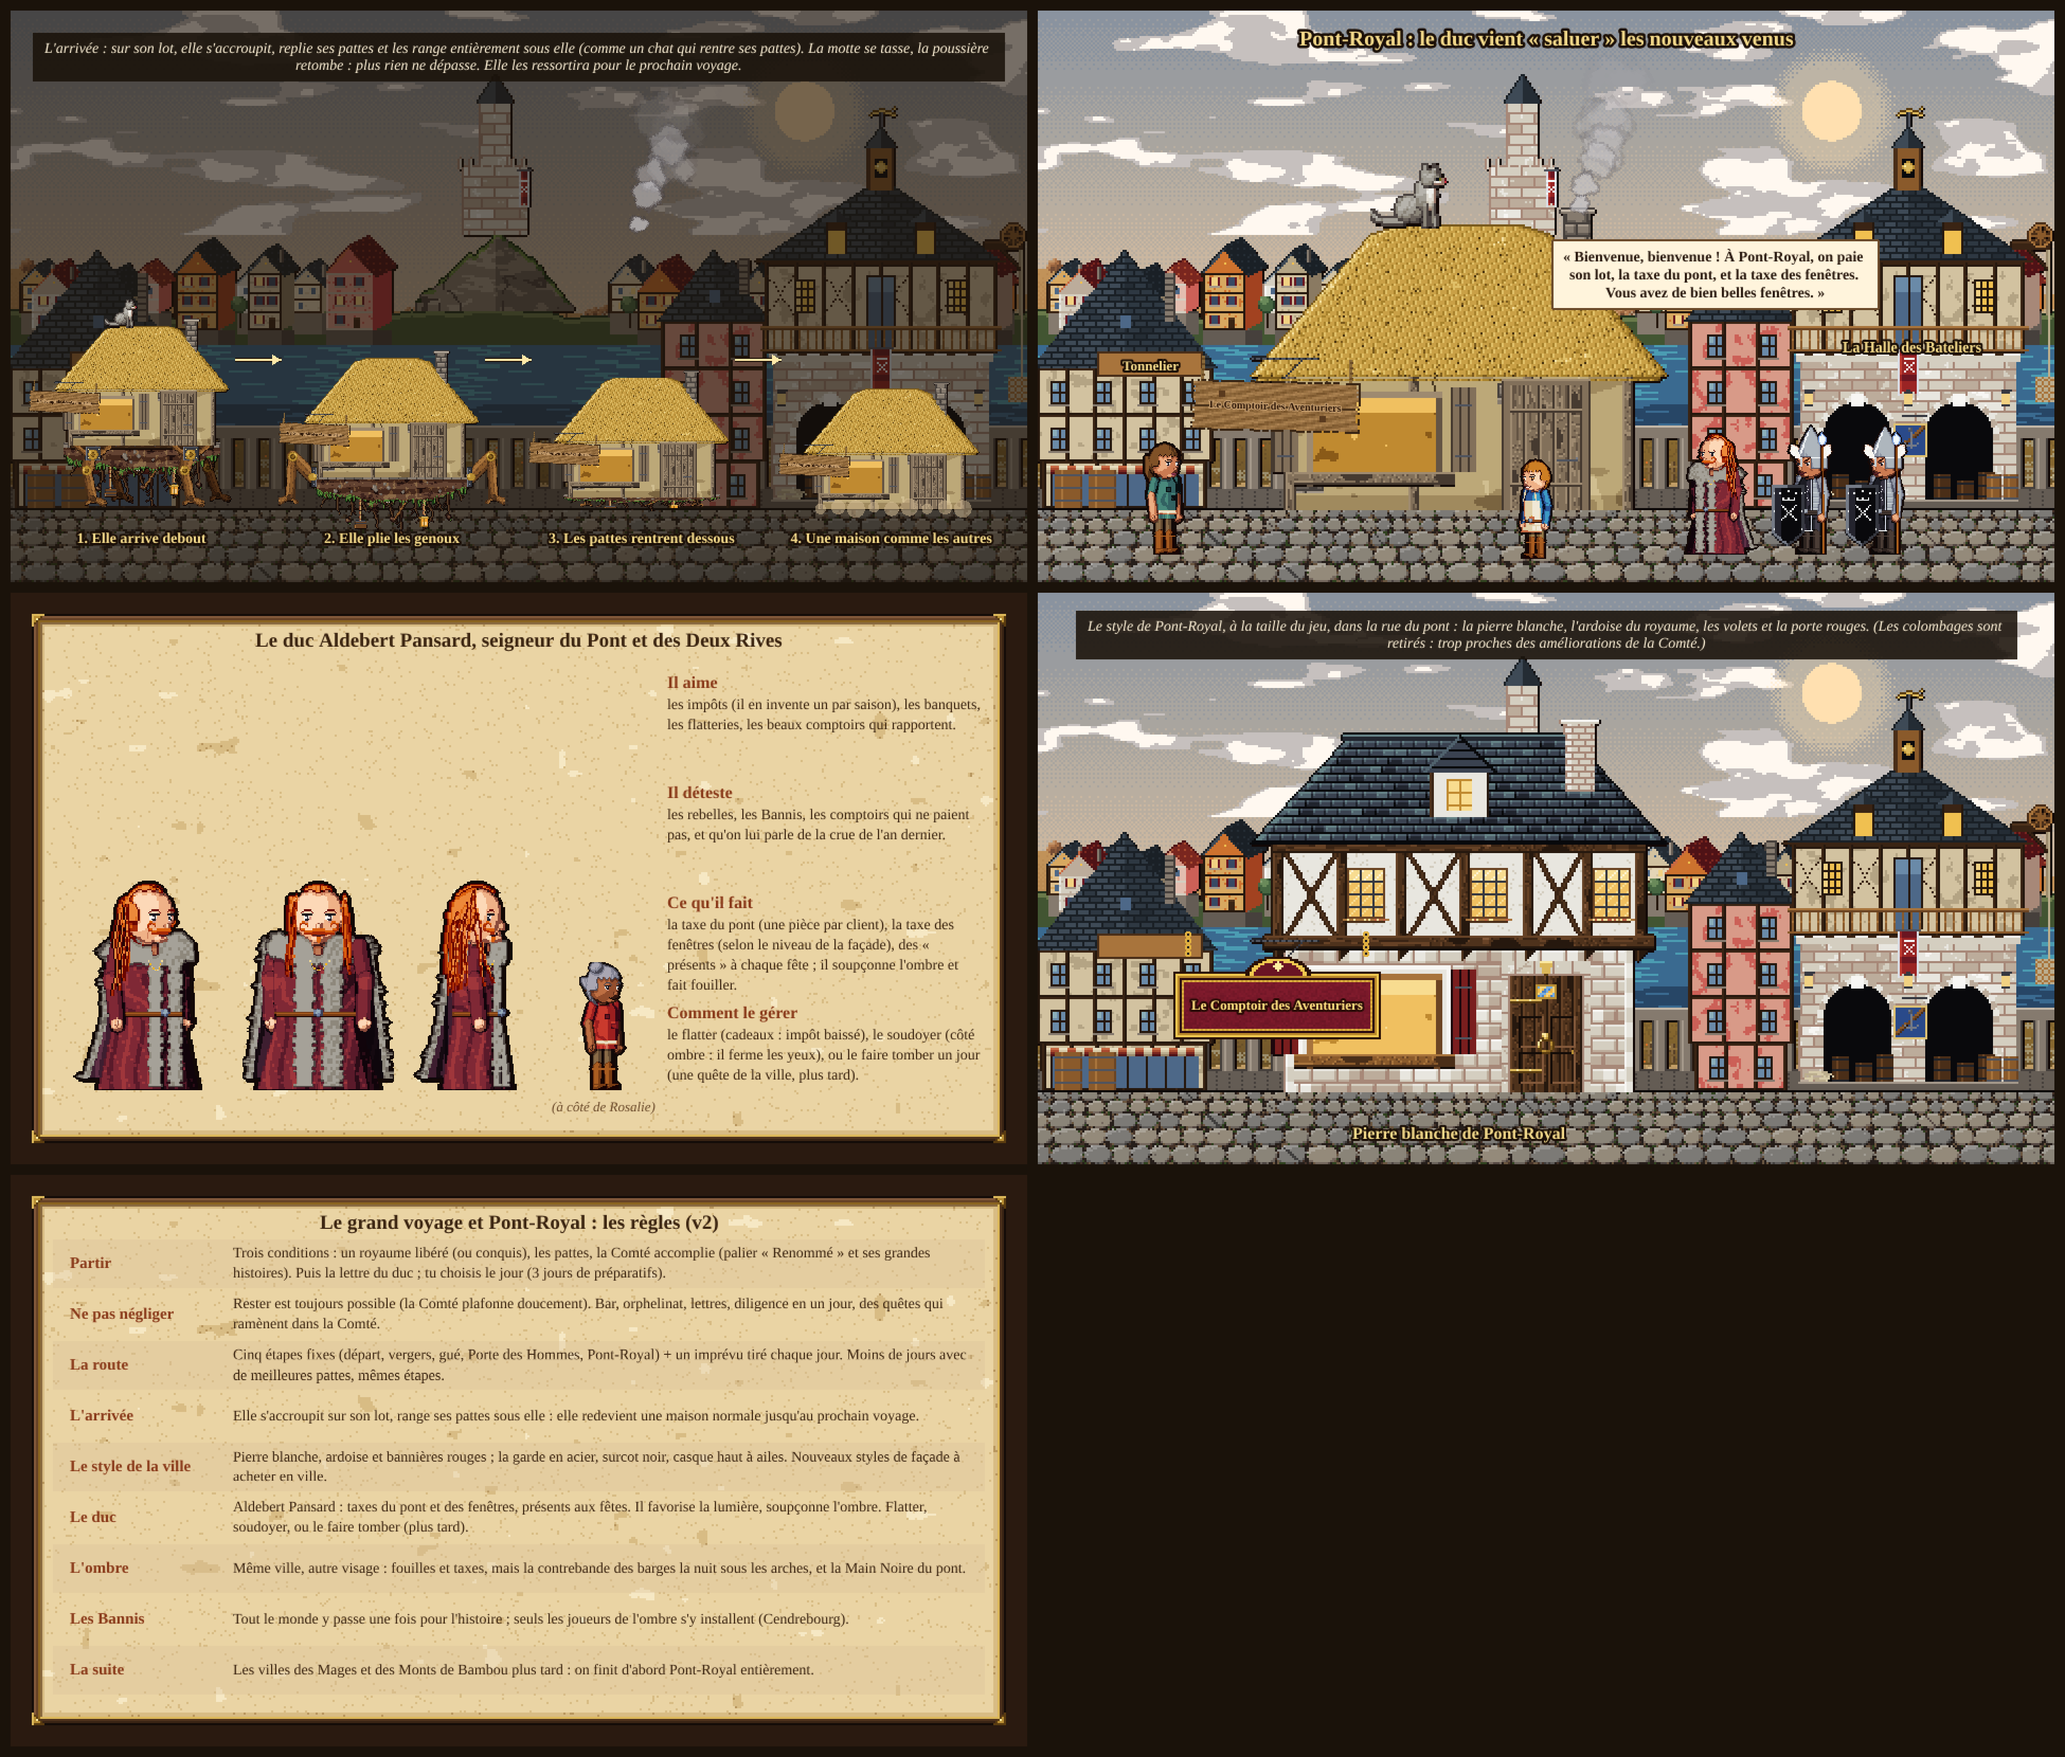
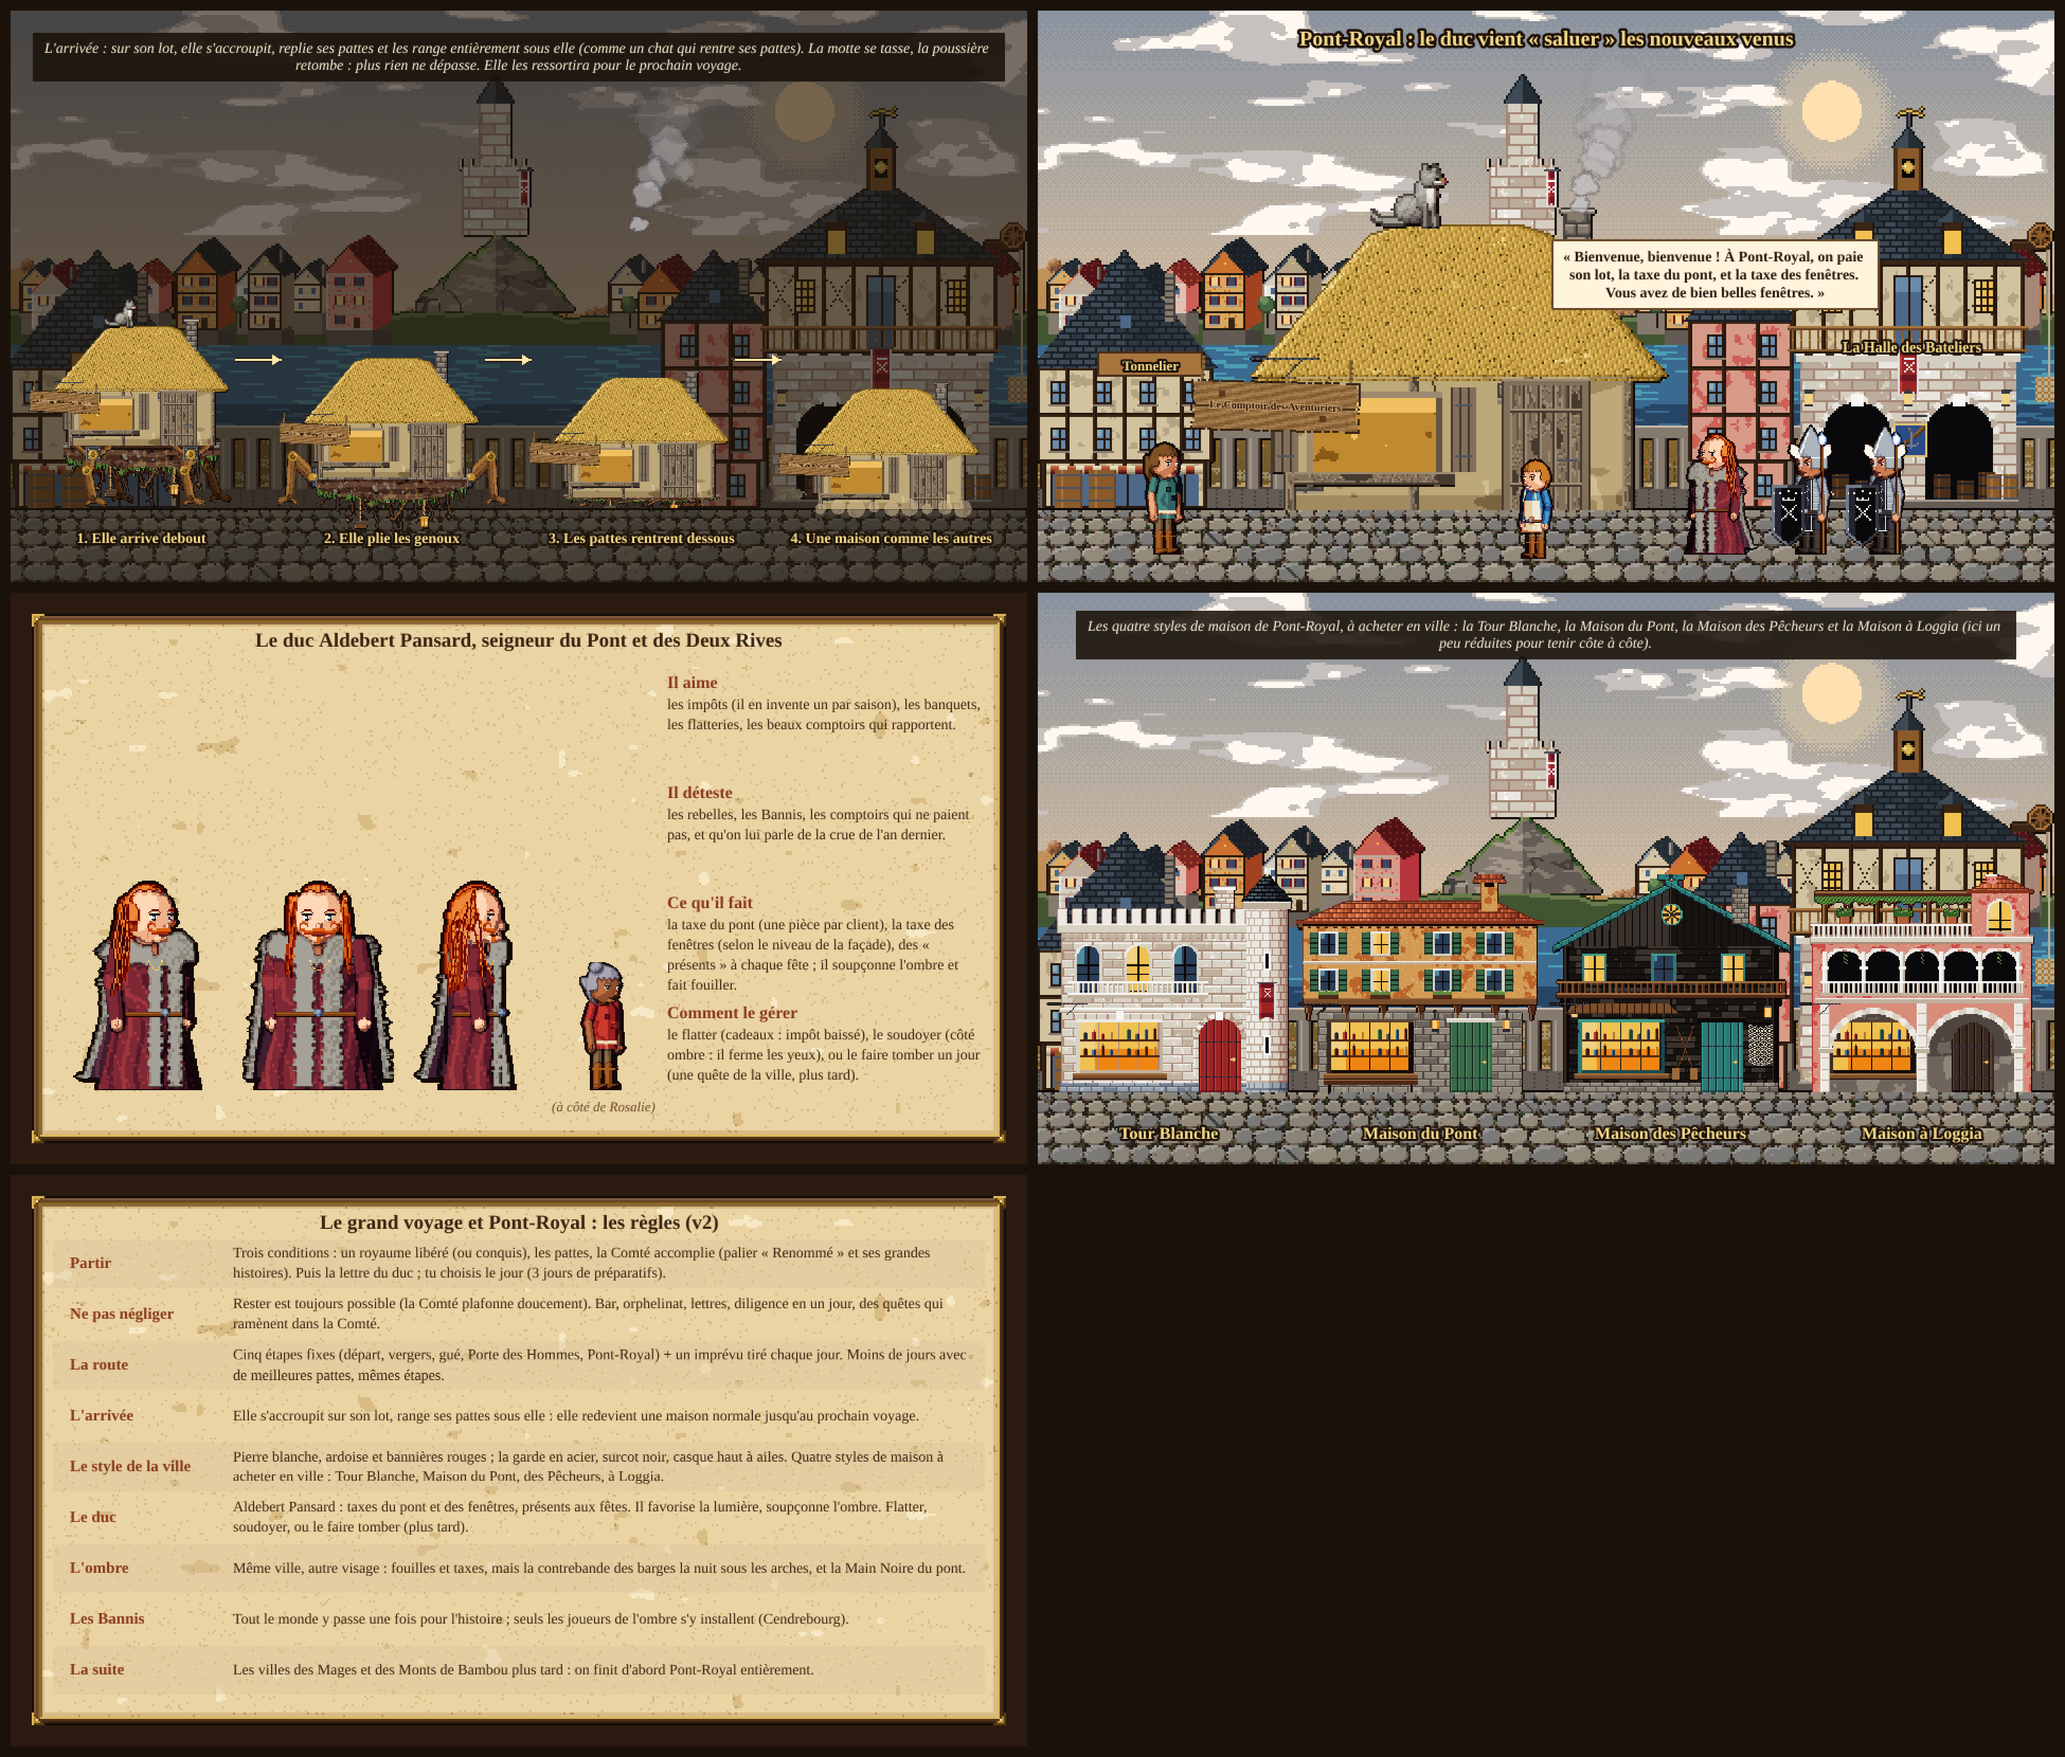
Planche 75 v2 : les quatre styles de maison retenus pour Pont-Royal (la pierre blanche retirée)
Claude-Session: https://claude.ai/code/session_018kbaP56NxxNMUzmj9EfKBC

Changed region(s): [[0.4964, 0.4033, 0.9928, 0.6515], [0.5585, 0.3413, 0.8687, 0.3723], [0.8997, 0.3413, 0.9618, 0.3723]]

diff --git a/docs/game-design.md b/docs/game-design.md
@@ -3323,3 +3323,5 @@ Idée du joueur : la couleur par sujet portée par des pierres précieuses sur l
   - **Le Griffon d'Aurore** (lumière) : aigle géant à quatre pattes, blanc, rémiges bleues bordées d'or, crête de longues plumes d'or rejetées en arrière, œil bleu lumineux, bec d'or crochu, jambières et serres d'or, caparaçon bleu brodé d'or et frangé, plaque de poitrail, selle double, bannière au soleil d'or ; il vole au-dessus d'une mer de nuages vers une cité blanche suspendue (les grands aigles des Terres du Milieu, les montures célestes des images).
   - **La Charogne Ailée** (ombre) : bête décharnée cousine des montures des Spectres, crâne d'os à long bec crochu à pointe ocre et crocs, œil rouge au fond de l'orbite, cornes rejetées en arrière, ailes de chauve-souris trouées et déchirées aux veines rouges, échine à épines, queue à pointes, selle de cuir noir à pointes de fer, lambeaux rouges, bannière à la rune rouge ; elle vole sous la lune rouge au-dessus des flèches noires.
   - **Règles proposées** : déblocage au royaume ★5 (quête, œuf à couver ou bête à apprivoiser) ; sert à rendre visite en une matinée à n'importe quelle ville où l'on s'est installé (déménager reste le grand voyage) ; le griffon se nourrit et se loge sur un perchoir (les clients de la lumière l'adorent) ; la charogne ne mange pas mais fait fuir les passants le jour où elle se pose (la Main Noire et les contrebandiers te respectent) ; neutre : on choisit pendant la quête ; une seule monture par partie ; on lui donne un nom (propositions : Aurore, Céleste, Plume-d'Or ; Charogne, Cendre, Nuit-Rouge) ; chaque royaume apporte son transport, la monture les surpasse tous.
+- **Choix du joueur (23/10) : les styles de maison de Pont-Royal** : « la Tour Blanche, la Maison du Pont, la Maison des Pêcheurs et la Maison à Loggia, et on supprime le précédent design » (la « Pierre blanche de Pont-Royal »). L'Hôtel du Marchand et la Maison à Redents ne sont pas retenus.
+  - **Fait** : le tableau 10 de la planche 75 v2 montre désormais les quatre styles retenus côte à côte dans la rue du pont (`planche-75-v2-tableau-10-styles-de-maison.png`) ; l'image de la pierre blanche est retirée ; les règles (tableau 11) citent les quatre styles. Dans le jeu, ce seront les quatre façades achetables à Pont-Royal (chez l'architecte), dessinées à la taille de la façade (porte, vitrine-comptoir et enseigne à leur place).
